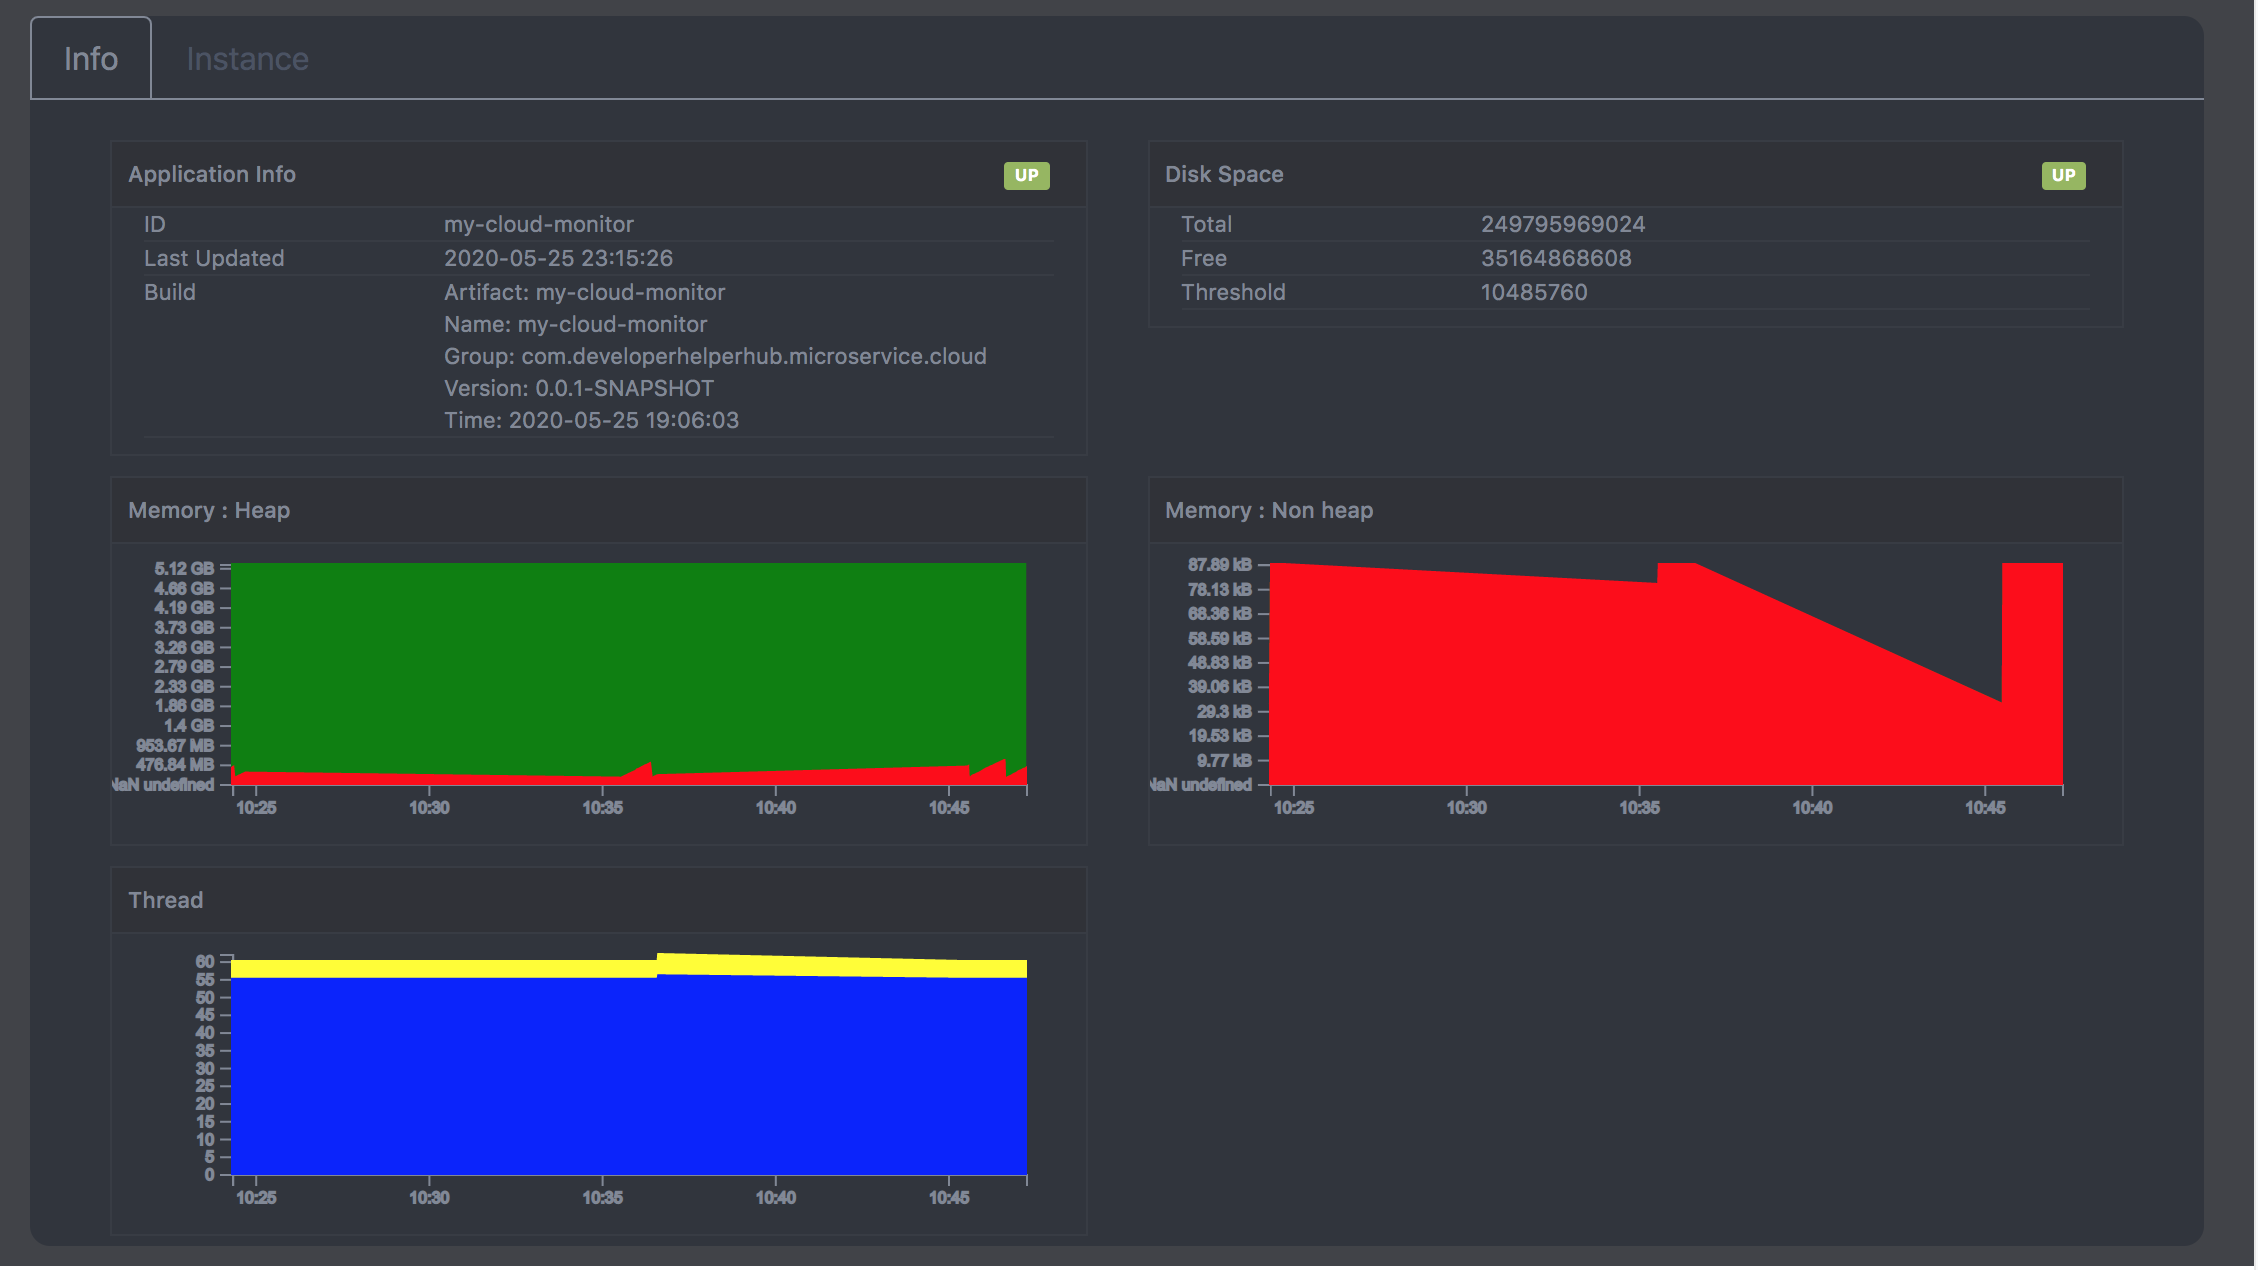
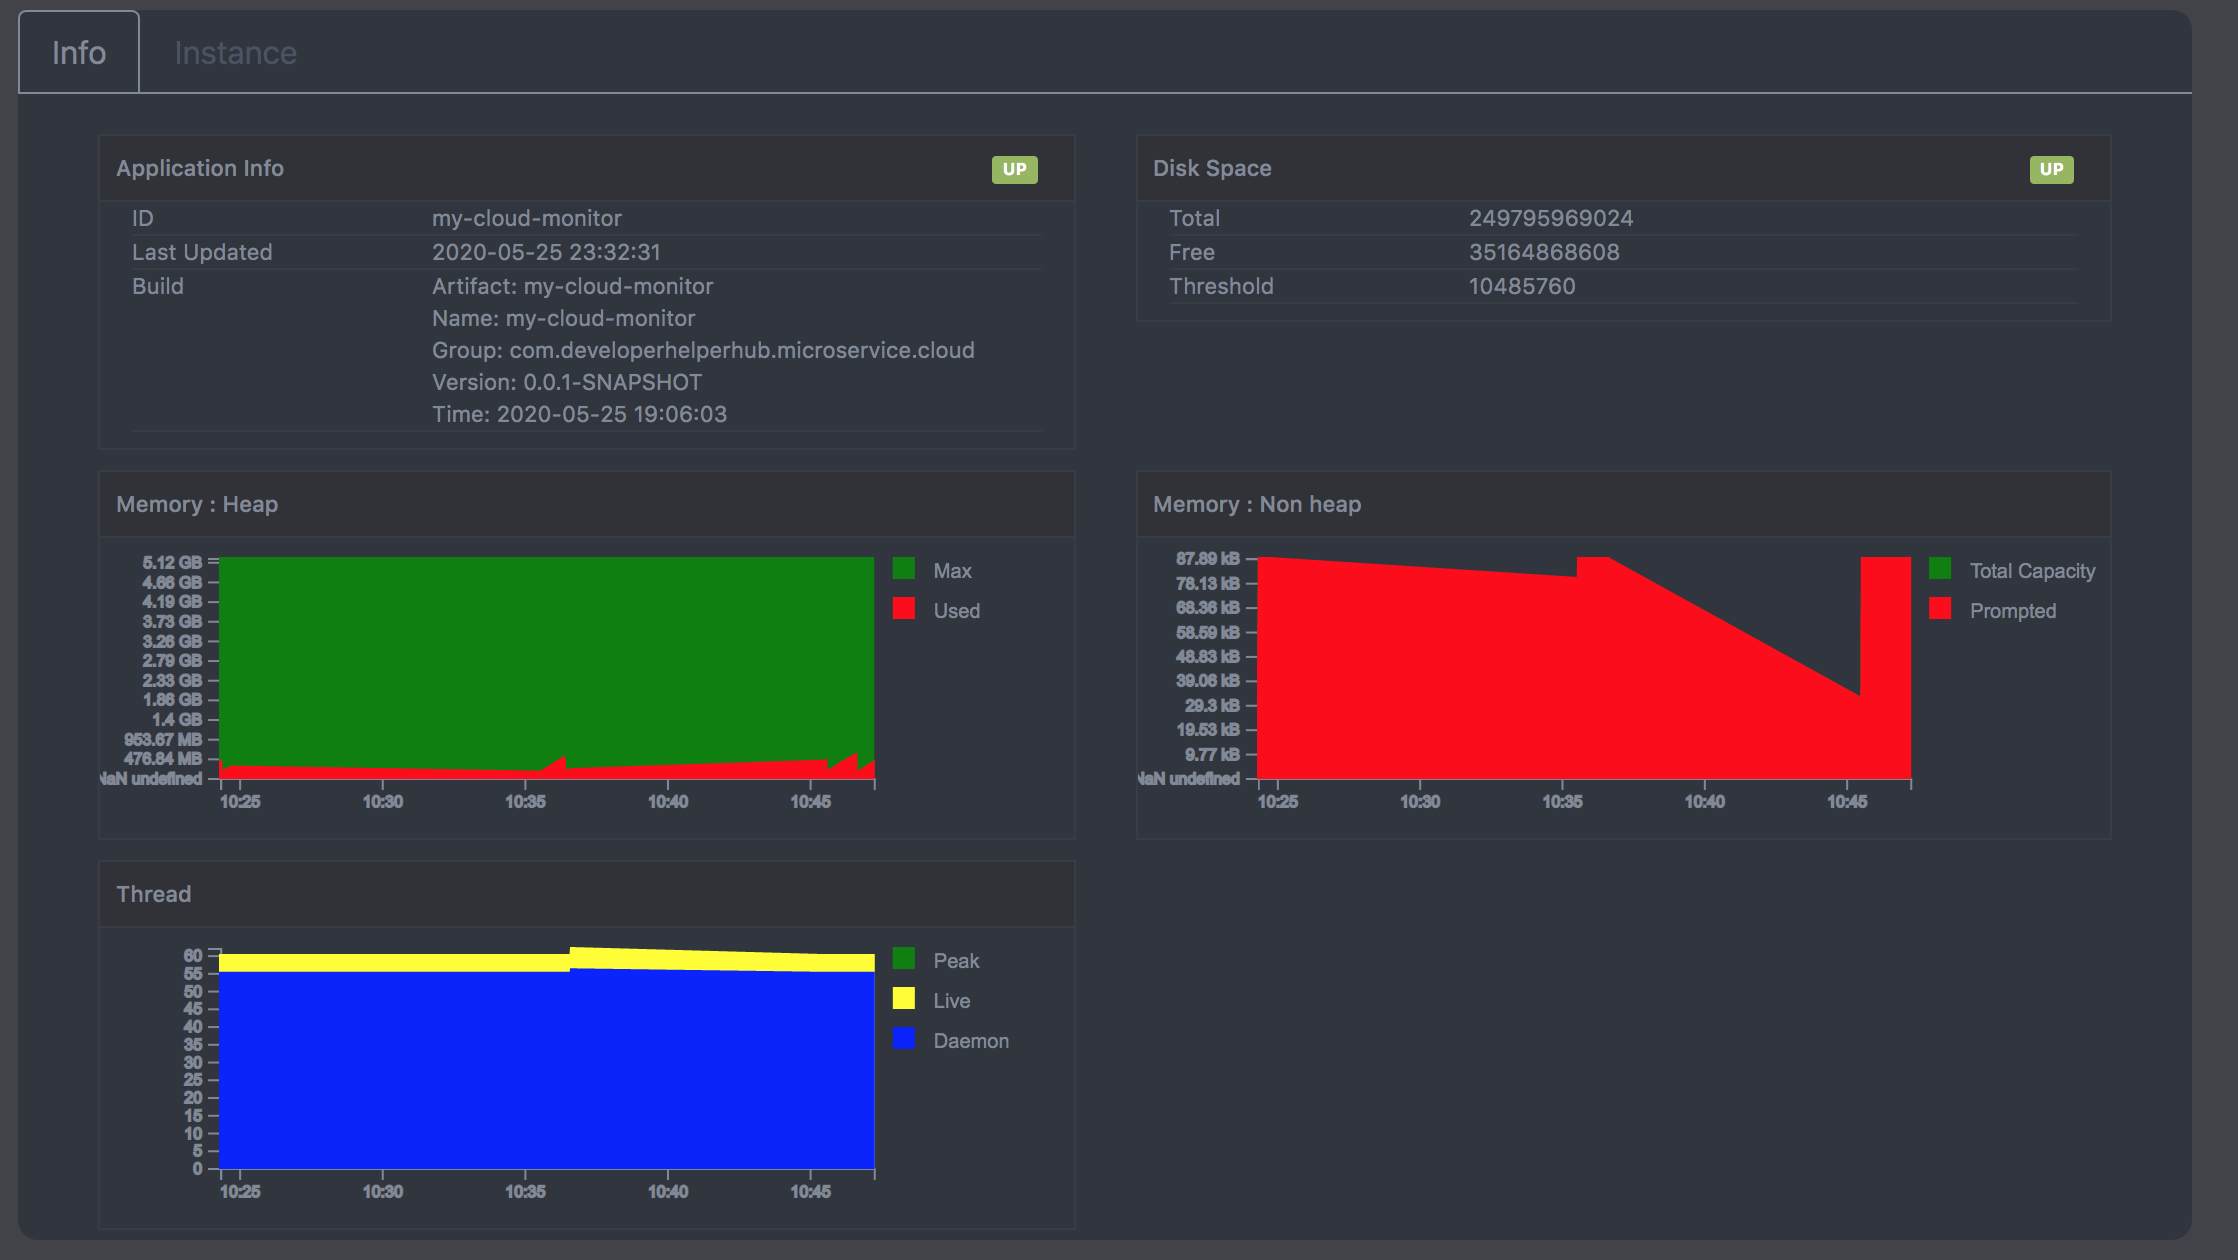
Legend added for all charts

diff --git a/my-cloud-dashboard/src/pages/MonitorPage.js b/my-cloud-dashboard/src/pages/MonitorPage.js
@@ -216,6 +216,7 @@ class MonitorPage extends React.Component {
 
                     var values = [];
                     var items = [];
+                    var legends = [];
 
                     eventData.memory.forEach(memory => {
 
@@ -234,6 +235,13 @@ class MonitorPage extends React.Component {
                             color = "red";
                         }
 
+                        legends.push({
+                            value: memory.display,
+                            fill: color,
+                            stroke: color,
+                            strokeWidth: 1
+                        })
+
                         items.push(
                             {
                                 fill: color,
@@ -248,7 +256,8 @@ class MonitorPage extends React.Component {
 
                     self.populateMemory({
                         items: items,
-                        values: values
+                        values: values,
+                        legends: legends
                     },
                         "#chart-memroy-heap",
                         function (d) {
@@ -258,6 +267,7 @@ class MonitorPage extends React.Component {
 
                     var values = [];
                     var items = [];
+                    var legends = [];
 
                     eventData.buffer.forEach(buffer => {
 
@@ -276,6 +286,14 @@ class MonitorPage extends React.Component {
                             color = "red";
                         }
 
+                        legends.push({
+                            value: buffer.display,
+                            fill: color,
+                            stroke: color,
+                            strokeWidth: 1
+                        })
+
+
                         items.push(
                             {
                                 fill: color,
@@ -290,7 +308,8 @@ class MonitorPage extends React.Component {
 
                     self.populateMemory({
                         items: items,
-                        values: values
+                        values: values,
+                        legends: legends
                     },
                         "#chart-memroy-non-heap",
                         function (d) {
@@ -300,6 +319,7 @@ class MonitorPage extends React.Component {
 
                     var values = [];
                     var items = [];
+                    var legends = [];
 
                     eventData.thread.forEach(thread => {
 
@@ -320,6 +340,13 @@ class MonitorPage extends React.Component {
                             color = "blue";
                         }
 
+                        legends.push({
+                            value: thread.display,
+                            fill: color,
+                            stroke: color,
+                            strokeWidth: 1
+                        })
+
                         items.push(
                             {
                                 fill: color,
@@ -334,7 +361,8 @@ class MonitorPage extends React.Component {
 
                     self.populateMemory({
                         items: items,
-                        values: values
+                        values: values,
+                        legends: legends
                     },
                         "#chart-thread",
                         function (d) {
@@ -379,7 +407,7 @@ class MonitorPage extends React.Component {
                         return "translate(0," + height + ")";
                     },
                     range: function (width, height) {
-                        return [0, width];
+                        return [0, width - 70];
                     }
                 },
                 y: {
@@ -395,6 +423,35 @@ class MonitorPage extends React.Component {
                 text: "#818896",
                 font: "8px Arial",
                 fontWeight: "1px"
+            },
+            legend: {
+                transform: function (d, i, width, height) {
+                    return 'translate(' + 0 + ',' + (i * 20) + ')';
+                },
+                rect: {
+                    width: 10,
+                    height: 10,
+                    x: function (width, height) {
+                        return width - 60;
+                    },
+                    y: function (width, height) {
+                        return 0;
+                    }
+                },
+                text: {
+                    x: function (width, height) {
+                        return width - 40;
+                    },
+                    y: function (width, height) {
+                        return 10;
+                    },
+                    value: function (d) {
+                        return d.value;
+                    },
+                    font: "10px arial",
+                    fill: "#818896"
+                },
+                data: data.legends,
             },
             values: data.values,
             extent: function (d) { return d.date; },

diff --git a/my-cloud-monitor/src/main/java/com/developerhelperhub/ms/id/service/monitor/MonitorService.java b/my-cloud-monitor/src/main/java/com/developerhelperhub/ms/id/service/monitor/MonitorService.java
@@ -113,6 +113,14 @@ public class MonitorService {
 
 				group.setOrder((key.getKey().compareTo(MonitorScheduler.MATRIX_JVM_MEMORY_MAX) == 0) ? 1 : 2);
 
+				if (key.getKey().compareTo(MonitorScheduler.MATRIX_JVM_MEMORY_USED) == 0) {
+					group.setDisplay("Used");
+				} else if (key.getKey().compareTo(MonitorScheduler.MATRIX_JVM_MEMORY_MAX) == 0) {
+					group.setDisplay("Max");
+				} else {
+					group.setDisplay(key.getKey());
+				}
+
 				memory.add(group);
 
 			} else if (key.getKey().compareTo(MonitorScheduler.MATRIX_JVM_BUFFER_MEMORY_PROMPTED) == 0
@@ -120,6 +128,14 @@ public class MonitorService {
 
 				group.setOrder(
 						(key.getKey().compareTo(MonitorScheduler.MATRIX_JVM_BUFFER_TOTAL_CAPACITY) == 0) ? 1 : 2);
+
+				if (key.getKey().compareTo(MonitorScheduler.MATRIX_JVM_BUFFER_MEMORY_PROMPTED) == 0) {
+					group.setDisplay("Prompted");
+				} else if (key.getKey().compareTo(MonitorScheduler.MATRIX_JVM_BUFFER_TOTAL_CAPACITY) == 0) {
+					group.setDisplay("Total Capacity");
+				} else {
+					group.setDisplay(key.getKey());
+				}
 
 				buffer.add(group);
 			}
@@ -177,10 +193,13 @@ public class MonitorService {
 
 			if (key.getKey().compareTo(MonitorScheduler.MATRIX_JVM_THREADS_PEAK) == 0) {
 				group.setOrder(1);
+				group.setDisplay("Peak");
 			} else if (key.getKey().compareTo(MonitorScheduler.MATRIX_JVM_THREADS_LIVE) == 0) {
 				group.setOrder(2);
+				group.setDisplay("Live");
 			} else {
 				group.setOrder(3);
+				group.setDisplay("Daemon");
 			}
 
 			thread.add(group);

diff --git a/my-cloud-monitor/src/main/java/com/developerhelperhub/ms/id/service/MonitorScheduler.java b/my-cloud-monitor/src/main/java/com/developerhelperhub/ms/id/service/MonitorScheduler.java
@@ -39,25 +39,25 @@ public class MonitorScheduler {
 	@Autowired
 	private InfluxDB influxDB;
 
-//	@Scheduled(fixedDelay = 1000)
-//	public void scheduleMonitorInfo() {
-//		monitorInfo();
-//	}
-//
-//	@Scheduled(fixedDelay = 1000)
-//	public void scheduleUpdateDiscoverInformation() {
-//		updateDiscoverInformation();
-//	}
-//
-//	@Scheduled(fixedDelay = 1000)
-//	public void scheduleMmonitorHealth() {
-//		monitorHealth();
-//	}
-//
-//	@Scheduled(fixedDelay = 1000)
-//	public void scheduleMonitorMatrics() {
-//		monitorMatrics();
-//	}
+	@Scheduled(fixedDelay = 1000)
+	public void scheduleMonitorInfo() {
+		monitorInfo();
+	}
+
+	@Scheduled(fixedDelay = 1000)
+	public void scheduleUpdateDiscoverInformation() {
+		updateDiscoverInformation();
+	}
+
+	@Scheduled(fixedDelay = 1000)
+	public void scheduleMmonitorHealth() {
+		monitorHealth();
+	}
+
+	@Scheduled(fixedDelay = 1000)
+	public void scheduleMonitorMatrics() {
+		monitorMatrics();
+	}
 
 	public void monitorInfo() {
 

diff --git a/my-cloud-monitor/src/main/java/com/developerhelperhub/ms/id/service/monitor/ApplicationMonitorModel.java b/my-cloud-monitor/src/main/java/com/developerhelperhub/ms/id/service/monitor/ApplicationMonitorModel.java
@@ -39,6 +39,7 @@ public class ApplicationMonitorModel {
 
 		private int order;
 		private String name;
+		private String display;
 		private List<Matric> matrics;
 
 		public int compareTo(MatricGroup o) {
